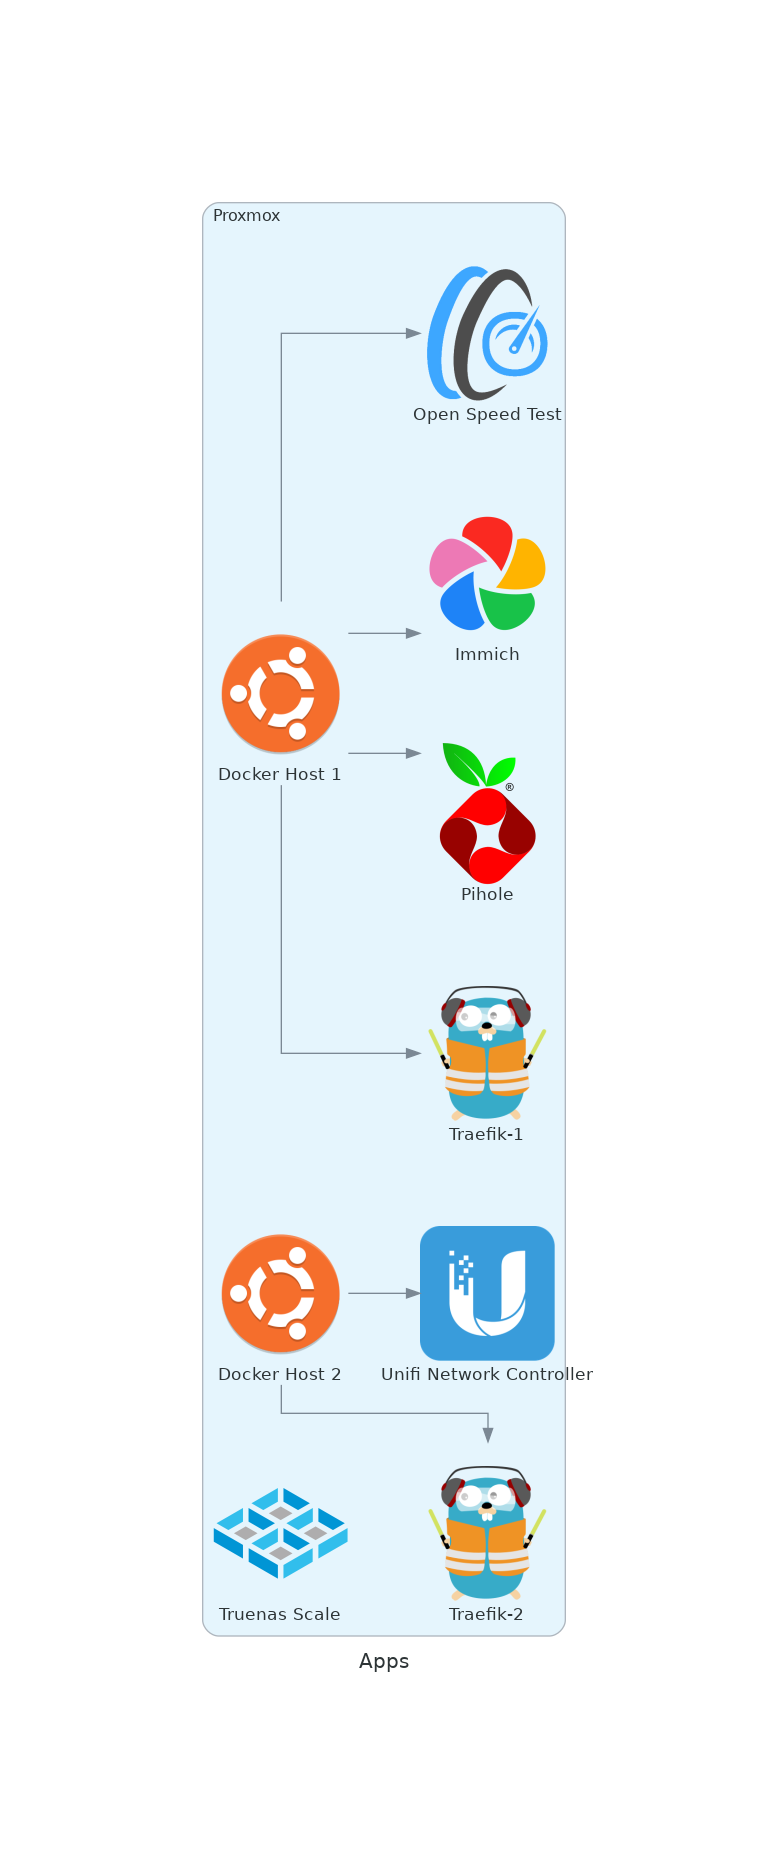
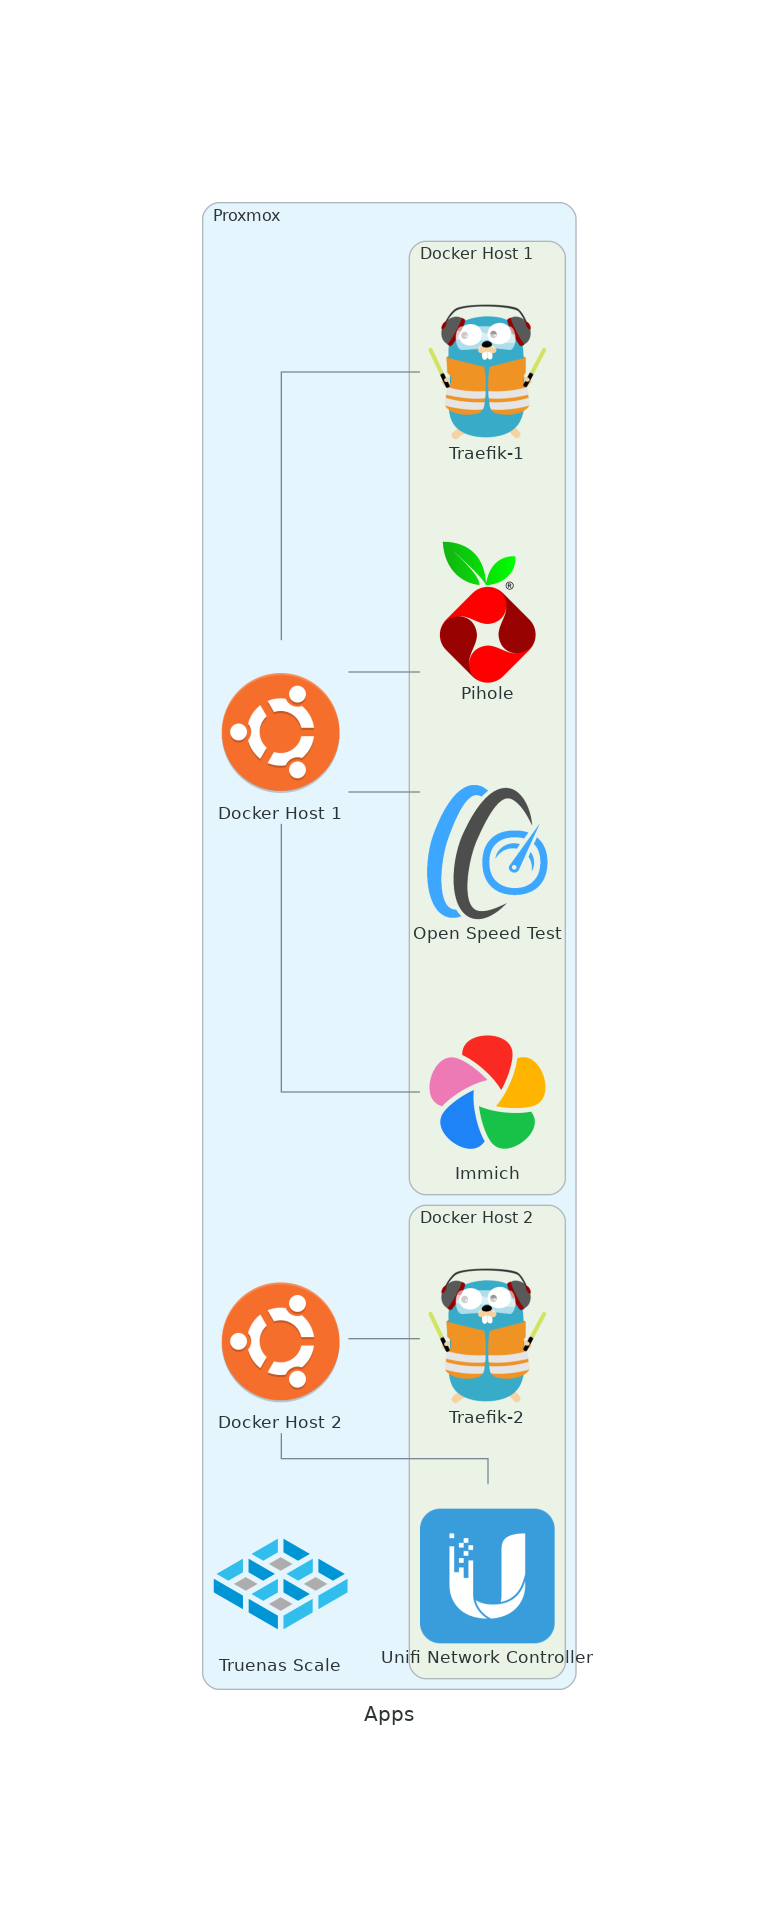
cleaned it up

Changed region(s): [[0.25, 0.0929, 0.75, 0.8985], [0.5, 0.3098, 0.5312, 0.4338]]

diff --git a/src/homelab.py b/src/homelab.py
@@ -25,11 +25,17 @@ with Diagram("Network", show=False, graph_attr=graph_attr ):
 
 with Diagram("Apps", show=False, graph_attr=graph_attr):
     with Cluster("Proxmox"):
-         truenas = Custom("Truenas Scale", "img/truenas.png")
-         pihole =  Custom ("Pihole", "img/pihole.png")
-         openspeedtest =  Custom ("Open Speed Test", "img/openspeedtest.png")
-         unifi =  Custom ("Unifi Network Controller", "img/unifi.png")
-         immich =  Custom ("Immich", "img/immich.png")
-         Ubuntu("Docker Host 1") >> [Traefik("Traefik-1"), pihole, immich, openspeedtest]
-         Ubuntu("Docker Host 2") >> [Traefik("Traefik-2"), unifi]
-         truenas
+        truenas = Custom("Truenas Scale", "img/truenas.png")
+        with Cluster("Docker Host 1"):
+            pihole =  Custom ("Pihole", "img/pihole.png")
+            openspeedtest =  Custom ("Open Speed Test", "img/openspeedtest.png")
+            immich =  Custom ("Immich", "img/immich.png")
+            traefik1 = Traefik("Traefik-1")
+            dockerhost1 = [traefik1, pihole, openspeedtest, immich]
+        with Cluster("Docker Host 2"): 
+            unifi =  Custom ("Unifi Network Controller", "img/unifi.png")
+            traefik2 = Traefik("Traefik-2")
+            dockerhost2 = [traefik2, unifi]
+        Ubuntu("Docker Host 1") - dockerhost1
+        Ubuntu("Docker Host 2") - dockerhost2
+        truenas
